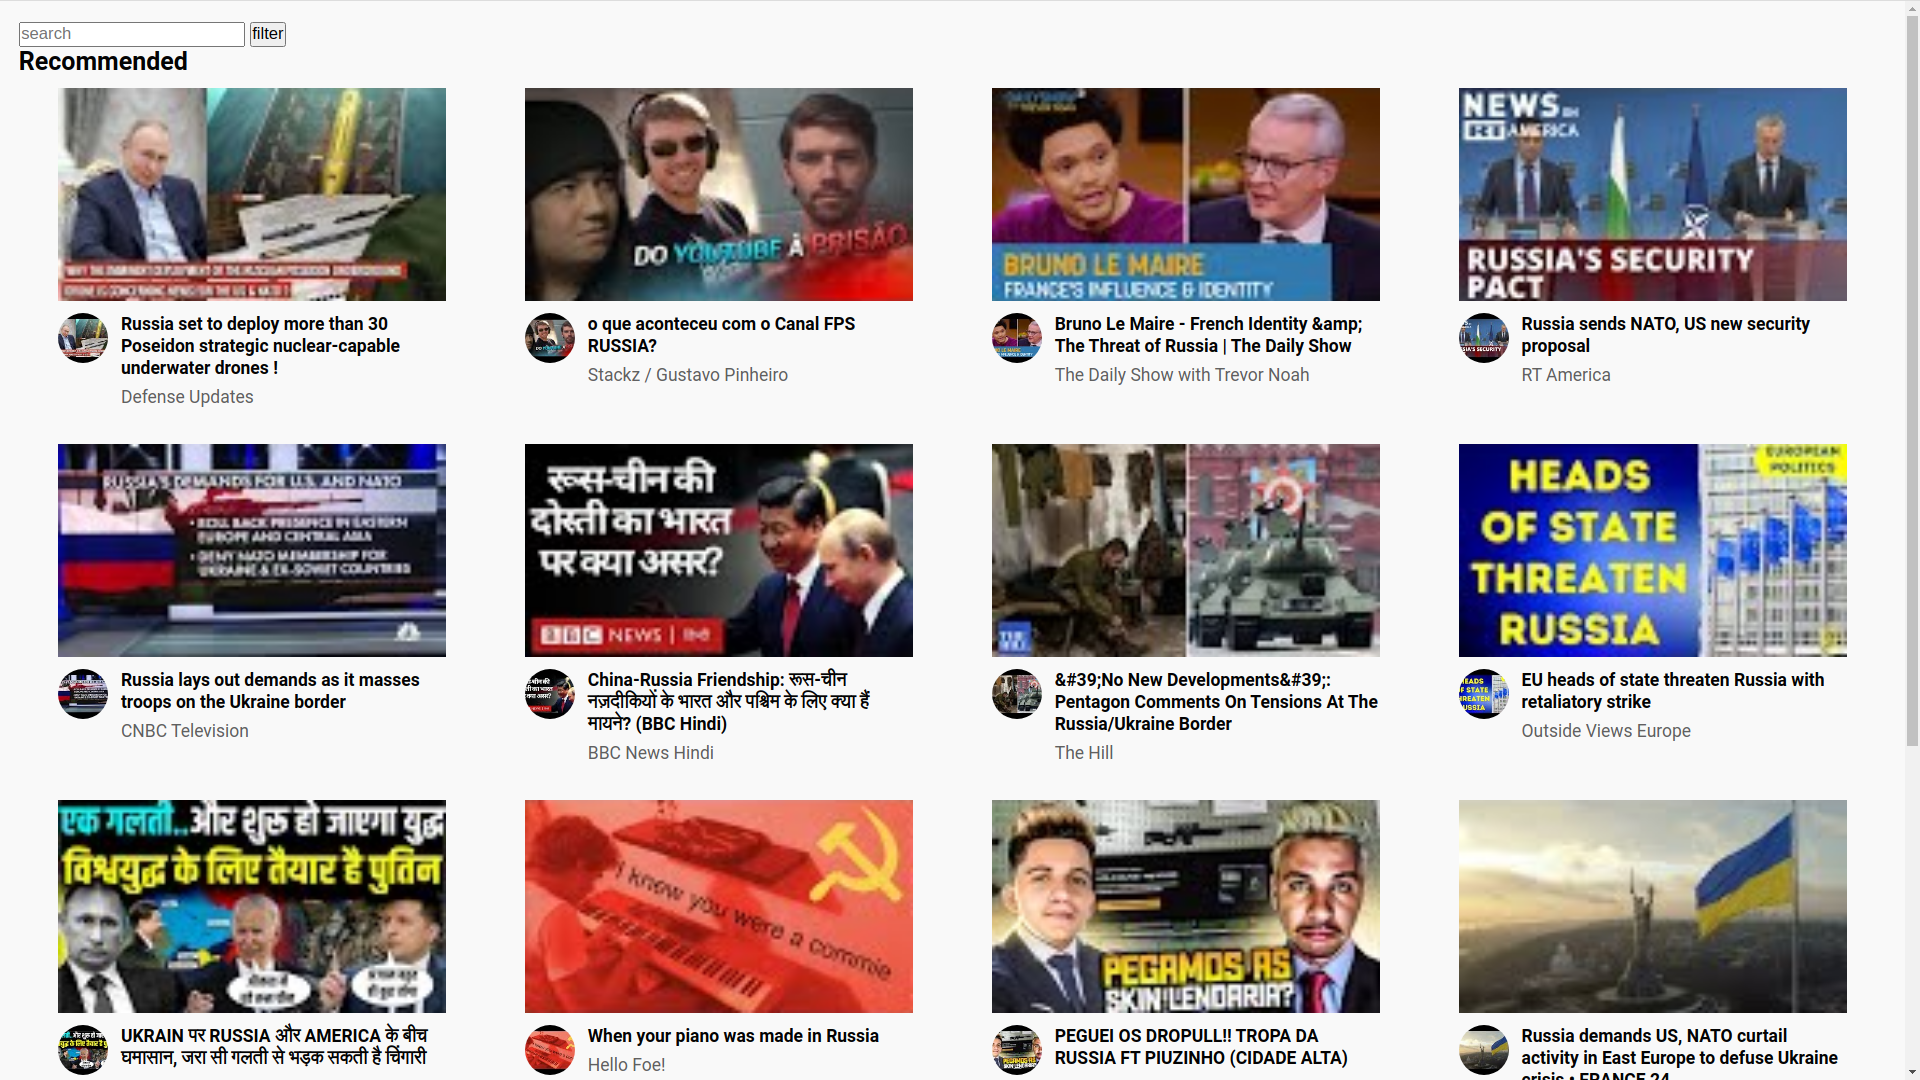
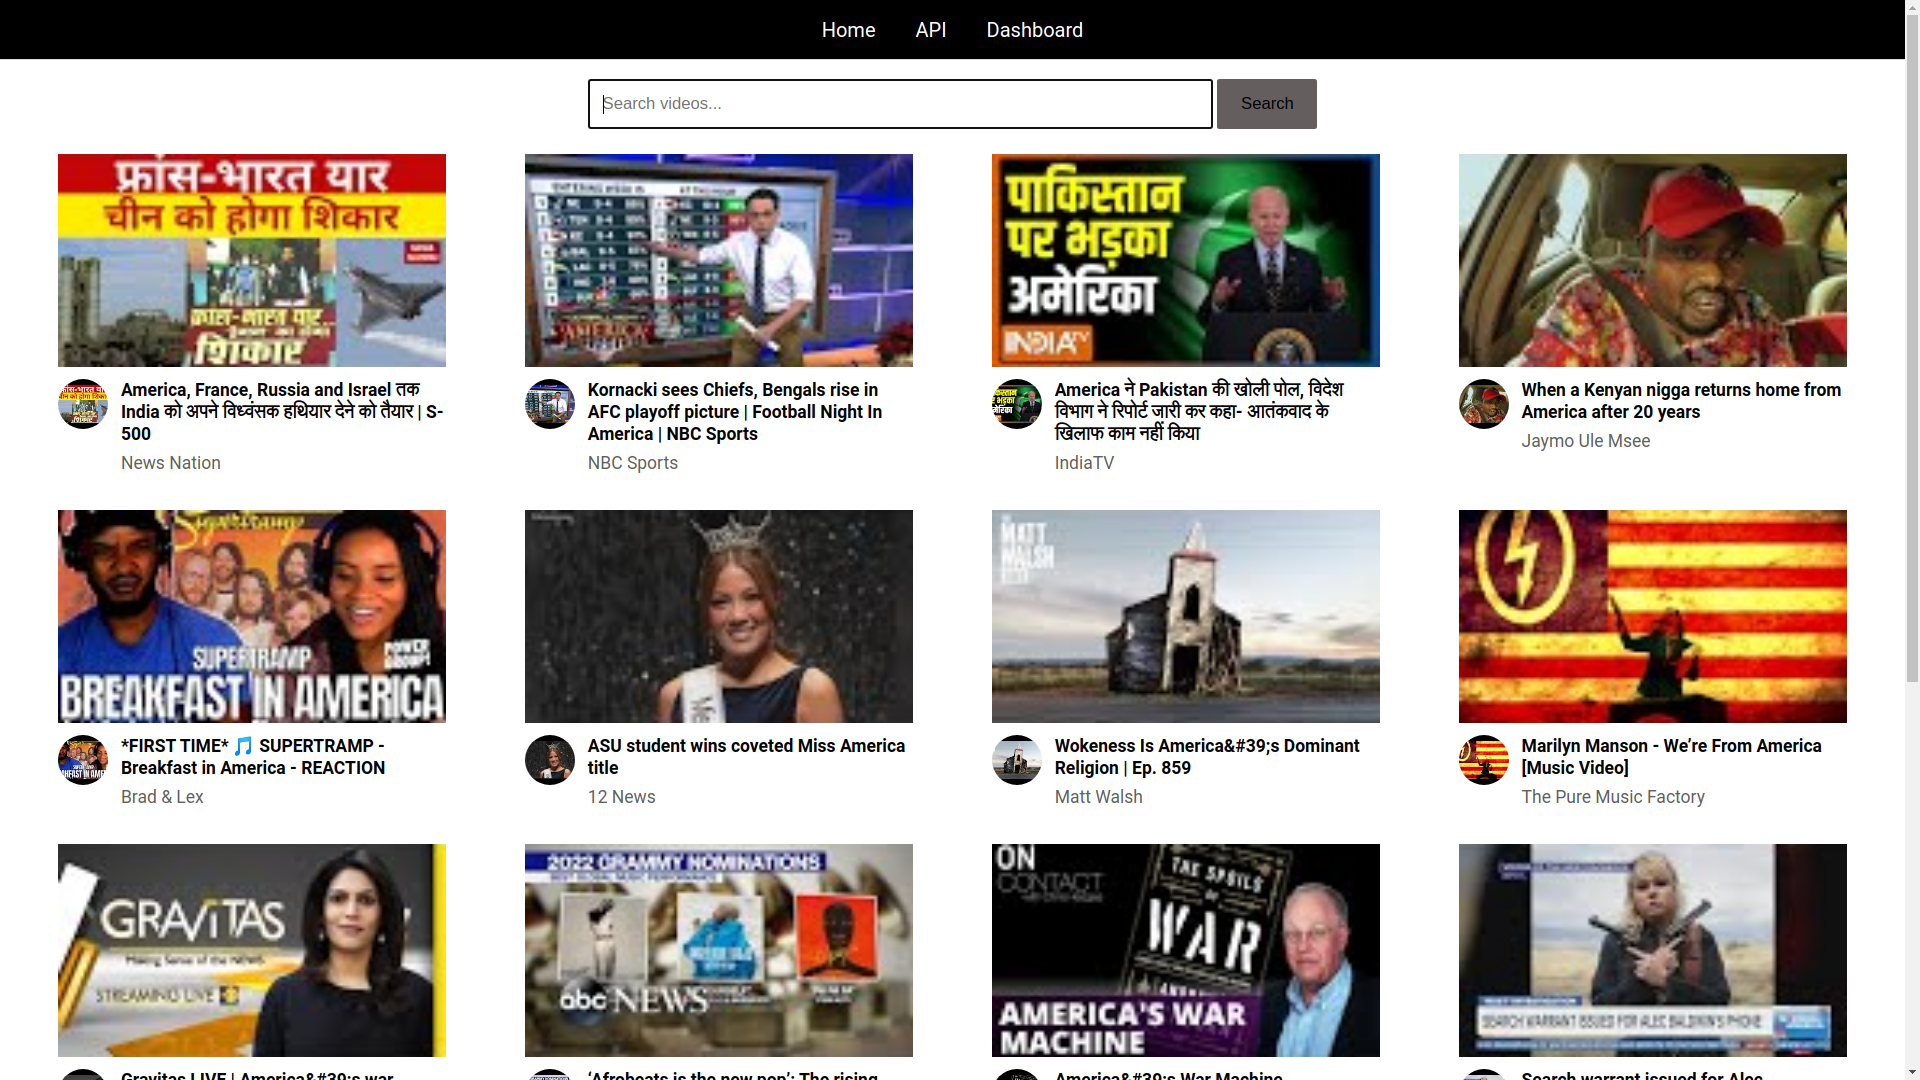
imporoved UI/UX

diff --git a/fetcher/templates/fetcher/youtube.html b/fetcher/templates/fetcher/youtube.html
@@ -14,12 +14,13 @@
         <li><a href="{% url 'dashboard' %}">Dashboard</a></li>
       </ul>
     <div class="videos">
-
-    <form action = "/">
-        <input type = "text" name = "search" placeholder="search"> 
-        <input type = "submit" value = "filter">
-    </form>
-    <h1>Recommended</h1>
+    
+    <div class="search">
+        <form action = "/">
+            <input type = "text" name = "search" placeholder="Search videos..."> 
+            <input type = "submit" value = "Search">
+        </form>
+    </div>
 
     <div class="videos__container">
         {% for video in videos %}
@@ -40,14 +41,14 @@
         {% endfor %}
     </div>
     <center>
-        <div class="pagination">
-            <span class="step-links">
+        <div style="margin: 30px;">
+            <span>
                 {% if page_obj.has_previous %}
                     <a href="?search={{search}}&page=1">&laquo; first</a>
                     <a href="?search={{search}}&page={{ page_obj.previous_page_number }}">previous</a>
                 {% endif %}
         
-                <span class="current">
+                <span">
                     Page {{ page_obj.number }} of {{ page_obj.paginator.num_pages }}.
                 </span>
         
@@ -58,6 +59,7 @@
             </span>
         </div>
     </center>
+    <br>
     </div>
   </body>
 </html>

diff --git a/static/style.css b/static/style.css
@@ -8,13 +8,14 @@
 
 body {
   font-family: 'Roboto', sans-serif;
+  padding-bottom: 30px;margin-bottom: 30px;;
 }
 .videos {
   width: 100%;
   height: 100%;
   padding: 15px 15px;
   border-top: 1px solid #ddd;
-  overflow-y: scroll;
+  /* overflow-y: scroll; */
 }
 
 .videos__container {
@@ -106,4 +107,30 @@ h1 {
 
 .navigation li a:hover {
   background-color: #111;
+}
+
+.search{
+  display: flex;
+  justify-content: center;
+  margin-bottom: 20px;;
+}
+.search input[type="text"]{
+  width:500px;
+  padding:10px;
+  height:40px;
+}
+.search input[type="submit"]{
+  width:80px;
+  padding:10px;
+  height:40px;
+  color:black;
+  background:rgb(100, 94, 94);
+  border:none;
+  border-radius :2px;
+}
+.search input[type="submit"]:hover{
+  cursor: pointer;
+  background-color: black;
+  color:white;
+  transition: all 1s;
 }
